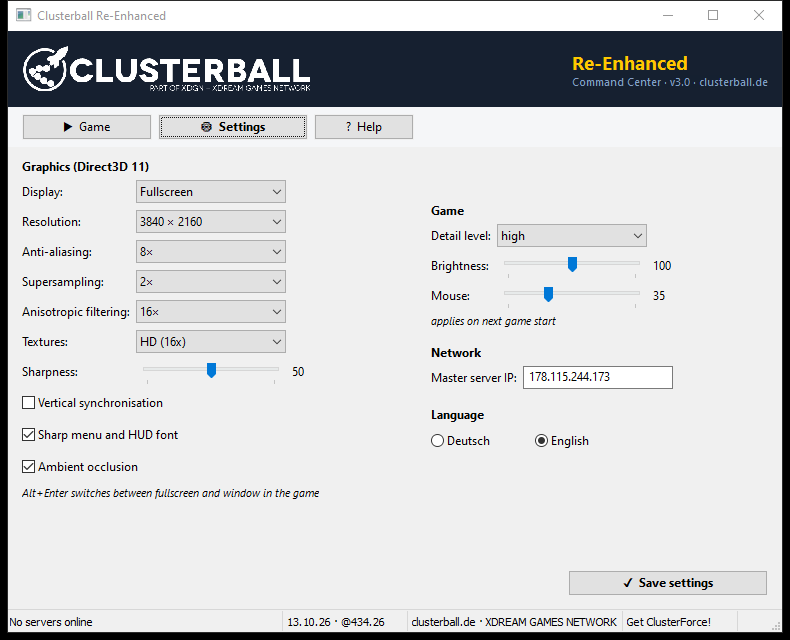
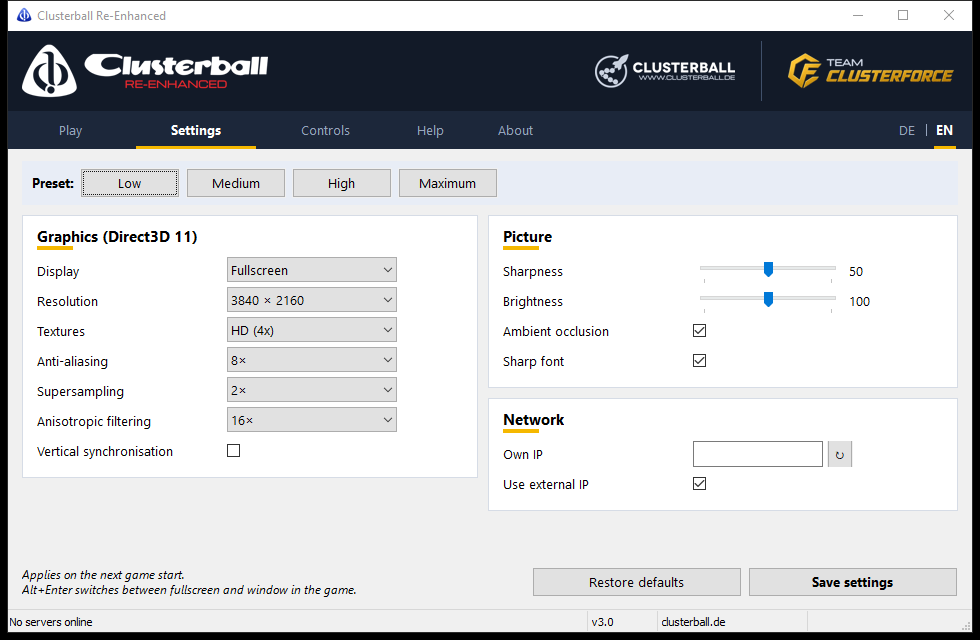
Docs: README opens with a short, non-technical introduction, launcher screenshots (English) and the game, technical details below; drop unused menu screenshots

diff --git a/README.md b/README.md
@@ -1,17 +1,61 @@
 # Clusterball Re-Enhanced
 
-Tools and infrastructure to make the game Clusterball (Daydream Software, 2000)
-playable again on modern systems - sharp, in the monitor's native resolution -
-and online via [clusterball.de](http://www.clusterball.de). At its heart is a
-native Direct3D 11 renderer written for this game.
+Clusterball (Daydream Software, 2000) is a fast sport in the air: you fly a
+glider through a landscape, collect coloured balls into a chain behind you and
+fly that chain through the ring in the arena - while up to seven other pilots
+try to shoot it apart or steal it. The game still has a loyal community at
+[clusterball.de](https://www.clusterball.de), but on today's PCs it barely
+runs any more.
 
-![Main menu in 4K](docs/main-menu.jpg)
+**Clusterball Re-Enhanced** makes it playable again - without changing the
+game:
 
-All game screenshots on this page are unscaled frames from the renderer at
-3840 × 2160 with the highest settings (8× MSAA, 2× supersampling, 16×
-anisotropic filtering, ambient occlusion, 16× texture pack), saved as JPEG at
-quality 95; the before/after crops are lossless PNG. Click one to see it at
-full size.
+- sharp at your monitor's native resolution, up to 4K, with smooth edges and
+  high-resolution textures
+- crisp menu and HUD text
+- a new launcher with the server list, graphics settings, key bindings
+  (WASD + mouse, mouse wheel) and the game's manual built in, in English and
+  German
+- online play via clusterball.de
+
+Gameplay, flight model, weapons and worlds stay exactly as they were.
+
+Made by Team ClusterForce, who are also working on
+[ClusterForce](https://store.steampowered.com/app/5063650/), a spiritual
+successor to Clusterball.
+
+## Screenshots
+
+### The launcher
+
+| Play | Settings |
+| ---- | -------- |
+| ![Launcher: server list and game start](docs/launcher-play.png) | ![Launcher: graphics settings](docs/launcher-settings.png) |
+
+### The game
+
+![Main menu](docs/main-menu.jpg)
+
+![Bora Bora](docs/flight-bora-bora.jpg)
+
+![Antarctica](docs/flight-antarctica.jpg)
+
+All game screenshots on this page are unscaled frames at 3840 × 2160 with the
+highest settings, saved as JPEG at quality 95. Click one to see it at full
+size.
+
+## Getting started
+
+Put `ClusterballCC.exe` into your Clusterball folder, next to
+`Clusterball.exe`, and start it. It sets everything else up when you start the
+game; the details are under [Installation](#installation).
+
+---
+
+## Under the hood
+
+The rest of this page is for those who want to know how it works or build it
+themselves.
 
 ## A native Direct3D 11 renderer
 
@@ -62,27 +106,14 @@ Because it sits exactly where the game draws, it does what a wrapper cannot:
 
 "Before" is the same game at the same size with the texture pack, the font
 replacement, anti-aliasing and post-processing switched off - the way the
-original renders.
+original renders. The screenshots use the highest settings: 8× MSAA, 2×
+supersampling, 16× anisotropic filtering, ambient occlusion and the 16×
+texture pack; the before/after crops are lossless PNG.
 
 All settings live in `clusterball_d3d.ini` next to `Clusterball.exe`; the
 launcher writes it, and the template with every key and its meaning is
 [launcher/layer/clusterball_d3d.ini](launcher/layer/clusterball_d3d.ini).
 An environment variable `CB_<NAME>` overrides a value (e.g. `CB_RES=1920x1080`).
-
-## Screenshots
-
-### Menus
-
-| | |
-| - | - |
-| ![Training: venue and line-up](docs/training.jpg) | ![Host a game](docs/host.jpg) |
-| ![Setup: options](docs/setup-options.jpg) | ![Setup: system, with the renderer and resolution in use](docs/setup-system.jpg) |
-
-### In the game
-
-![Bora Bora](docs/flight-bora-bora.jpg)
-
-![Antarctica](docs/flight-antarctica.jpg)
 
 ## Repository
 
@@ -104,11 +135,8 @@ the development tools:
 The launcher replaces the outdated XDream Command Center (XDreamCC) that
 originally shipped with the game. XDreamCC relies on XDream services that
 were shut down long ago; the Command Center takes over all of its duties and
-replaces the old `XDreamCC.ini`.
-
-| Game | Settings |
-| ---- | -------- |
-| ![Command Center, Game tab](docs/launcher-game.png) | ![Command Center, Settings tab](docs/launcher-settings.png) |
+replaces the old `XDreamCC.ini`. Screenshots are at the
+[top of this page](#the-launcher).
 
 ### Features
 
